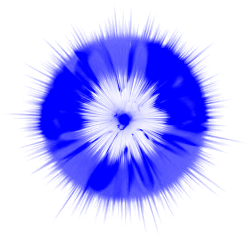
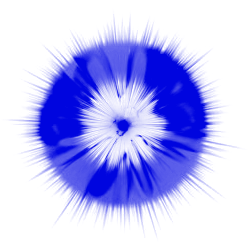
Add mine graphics and refactor energy orb styles a bit Standardizes colors to match shield styles

Changed region(s): [[0.084, 0.0586, 0.896, 0.9079], [0.504, 0.5565, 0.532, 0.5858], [0.112, 0.2636, 0.14, 0.2929]]

diff --git a/ninjaroot/resources/styles.css b/ninjaroot/resources/styles.css
@@ -464,13 +464,13 @@ label.username.flash-red:before {
 }
 
 /** No way to set pseudo :before with JS, so these classes will have to do **/
-label.username.shield-0:before{padding-right:0;width:0%}
-label.username.shield-5:before{padding-right:1px;width:5%}
-label.username.shield-10:before{padding-right:1px;width:10%}
-label.username.shield-15:before{padding-right:2px;width:15%}
-label.username.shield-20:before{padding-right:2px;width:20%}
-label.username.shield-25:before{padding-right:3px;width:25%}
-label.username.shield-30:before{padding-right:3px;width:30%}
+label.username.shield-0:before{padding-right:0;background-color:red;width:0%}
+label.username.shield-5:before{padding-right:1px;background-color:red;width:5%}
+label.username.shield-10:before{padding-right:1px;background-color:red;width:10%}
+label.username.shield-15:before{padding-right:2px;background-color:red;width:15%}
+label.username.shield-20:before{padding-right:2px;background-color:red;width:20%}
+label.username.shield-25:before{padding-right:3px;background-color:red;width:25%}
+label.username.shield-30:before{padding-right:3px;background-color:red;width:30%}
 label.username.shield-35:before{padding-right:5px;background-color:orange;width:35%}
 label.username.shield-40:before{padding-right:5px;background-color:orange;width:40%}
 label.username.shield-45:before{padding-right:7px;background-color:orange;width:45%}
@@ -611,12 +611,11 @@ projectile.laser {
   background-color:#FFF;
 }
 
-
 projectile.duallaser {
   height: 50px;
   width: 25px !important;
-  border-left: 2px solid green;
-  border-right: 2px solid green;
+  border-left: 2px solid white;
+  border-right: 2px solid white;
   border-radius: 3px;
   background-color: transparent !important;
 }
@@ -632,7 +631,8 @@ projectile.energy {
   height: 64px !important;
   width: 64px !important;
   background-size: 64px 64px;
-  background-image: url('graphics/energy_orb_white.png');
+  background-image: url('graphics/energy_orb_red.png');
+  background-color: transparent !important;
 
   animation-name: spin;
   animation-duration: 1000ms;
@@ -645,37 +645,35 @@ projectile.energy {
   -webkit-animation-timing-function: linear;
 }
 
+projectile.energy.blue {background-image: url('graphics/energy_orb_blue.png');}
+projectile.energy.green {background-image: url('graphics/energy_orb_green.png');}
+projectile.energy.orange {background-image: url('graphics/energy_orb_orange.png');}
+projectile.energy.pink {background-image: url('graphics/energy_orb_pink.png');}
+projectile.energy.purple {background-image: url('graphics/energy_orb_purple.png');}
+projectile.energy.yellow {background-image: url('graphics/energy_orb_yellow.png');}
+
 projectile.mine {
+  background-color: transparent !important;
+  background-image: url("graphics/mine_red.gif");
+  background-size: 40px 40px;
+  border-radius: 6px 0 6px 0;
   height: 40px !important;
   width: 40px !important;
-  border-radius: 6px 0;
-  background-color:#AAA;
 }
 
-projectile.blue {
-  background-color: blue;
-}
+projectile.mine.blue { background-image: url("graphics/mine_blue.gif"); }
+projectile.mine.green { background-image: url("graphics/mine_green.gif"); }
+projectile.mine.orange { background-image: url("graphics/mine_orange.gif"); }
+projectile.mine.pink { background-image: url("graphics/mine_pink.gif"); }
+projectile.mine.purple { background-image: url("graphics/mine_purple.gif"); }
+projectile.mine.yellow { background-image: url("graphics/mine_yellow.gif"); }
 
-projectile.green {
-  background-color: green;
-  width: 2px;
-}
 
-projectile.red {
-  background-color: red;
-}
+projectile.blue {background-color: blue; border-color: blue;}
+projectile.green {background-color: green; border-color: green;}
+projectile.orange {background-color: orange; border-color: orange;}
+projectile.pink {background-color: magenta; border-color: magenta;}
+projectile.purple {background-color: purple; border-color: purple;}
+projectile.red {background-color: red; border-color: red;}
+projectile.yellow {background-color: yellow; border-color: yellow;}
 
-projectile.energy.red {
-  background-image: url('graphics/energy_orb_red.png');
-  background-color: transparent;
-}
-
-projectile.energy.blue {
-  background-image: url('graphics/energy_orb_blue.png');
-  background-color: transparent;
-}
-
-projectile.energy.green {
-  background-image: url('graphics/energy_orb_green.png');
-  background-color: transparent;
-}

diff --git a/ninjaroot/ninjaships.node.js b/ninjaroot/ninjaships.node.js
@@ -92,8 +92,8 @@ var shipTypes = {
       style: 'yellow'
     },
     weapons: [
-      {type: 'biglaser', style: 'red', fireRate: 950},
-      {type: 'mine', style: 'red', fireRate: 10000}
+      {type: 'biglaser', style: 'yellow', fireRate: 950},
+      {type: 'mine', style: 'yellow', fireRate: 10000}
     ]
   },
   b: {
@@ -109,7 +109,7 @@ var shipTypes = {
     },
     weapons: [
       {type: 'energy', style: 'green', fireRate: 450},
-      {type: 'mine', style: 'red', fireRate: 10000}
+      {type: 'mine', style: 'green', fireRate: 10000}
     ]
   },
   c: {
@@ -124,8 +124,8 @@ var shipTypes = {
       style: 'red'
     },
     weapons: [
-      {type: 'laser', style: 'green', fireRate: 1750},
-      {type: 'mine', style: 'green', fireRate: 10000}
+      {type: 'laser', style: 'red', fireRate: 1750},
+      {type: 'mine', style: 'red', fireRate: 10000}
     ]
   },
   d: {
@@ -140,8 +140,8 @@ var shipTypes = {
       style: 'pink'
     },
     weapons: [
-      {type: 'biglaser', style: 'blue', fireRate: 750},
-      {type: 'mine', style: 'blue', fireRate: 10000}
+      {type: 'biglaser', style: 'pink', fireRate: 750},
+      {type: 'mine', style: 'pink', fireRate: 10000}
     ]
   },
   e: {
@@ -156,8 +156,8 @@ var shipTypes = {
       style: 'purple'
     },
     weapons: [
-      {type: 'duallaser', style: 'green', fireRate: 650},
-      {type: 'mine', style: 'green', fireRate: 10000}
+      {type: 'duallaser', style: 'purple', fireRate: 650},
+      {type: 'mine', style: 'purple', fireRate: 10000}
     ]
   },
   f: {
